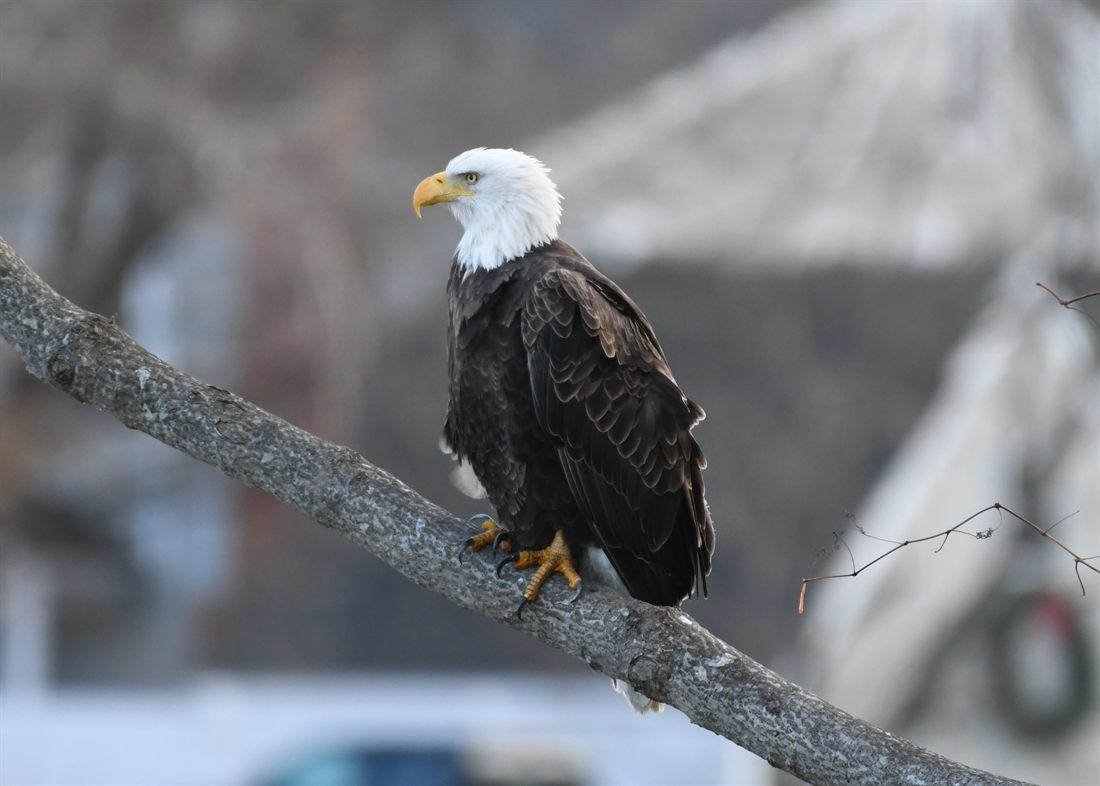
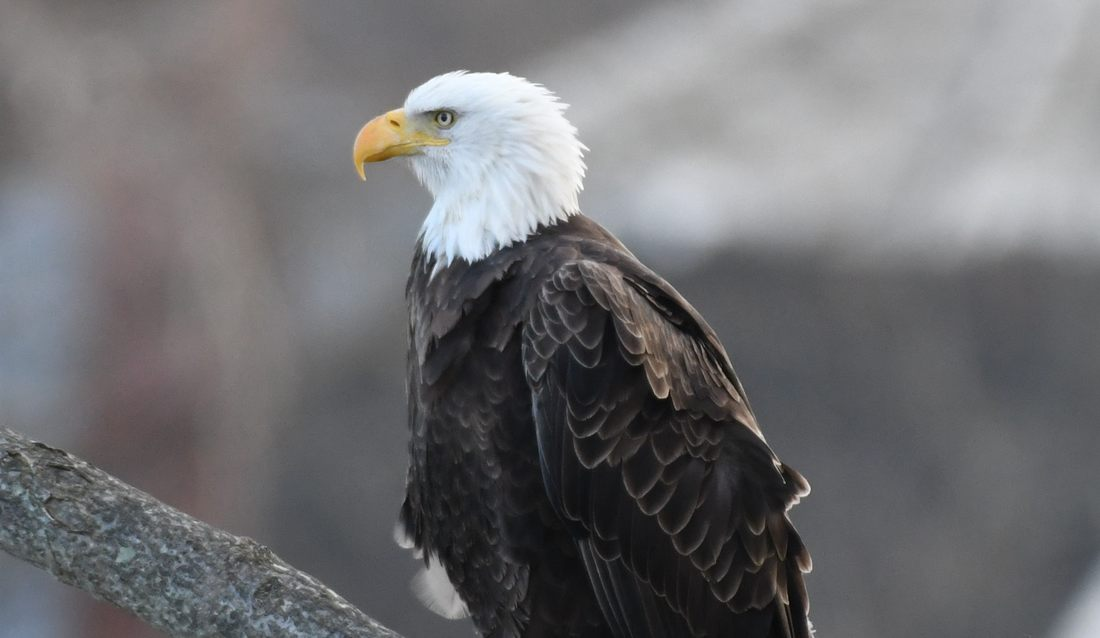
Avian Life: center the eagle (crop DSC_2103 + object-position)

diff --git a/index.html b/index.html
@@ -50,6 +50,7 @@
     .grid{max-width:1000px;margin:2rem auto 0;display:grid;grid-template-columns:repeat(2,1fr);gap:1.4rem;}
     .card{border:1px solid var(--line);border-radius:12px;overflow:hidden;background:var(--paper);}
     .card img{height:190px;width:100%;object-fit:cover;}
+    .card img.eagle{object-position:50% 22%;}
     .card .body{padding:1.1rem 1.3rem;}
     .card h3{font-size:1.4rem;margin-bottom:.4rem;}
     .card p{margin:0;color:var(--soft);font-size:.98rem;}
@@ -138,7 +139,7 @@
         <div class="body"><h3>The Banks</h3><p>Native marsh grasses and seagrasses filter sediment and runoff before it reaches the harbor. By controlling invasives, planting more natives, and reducing sedimentation in the Upper Harbor, MREF works to protect the banks and help oysters, marine life, and recreation thrive there.</p></div>
       </article>
       <article class="card">
-        <img src="img/avian-eagle.jpg" alt="Bald eagle" />
+        <img class="eagle" src="img/avian-eagle.jpg" alt="Bald eagle" />
         <div class="body"><h3>Avian Life</h3><p>The estuary’s rich ecosystem is home to many notable birds — Bald Eagles, Ospreys, Cormorants, Swans, Blue Herons and Egrets, along with countless waterfowl, ducks, and geese. As the health and diversity of the waterway improve, so will the bird life that depends on it.</p></div>
       </article>
     </div>